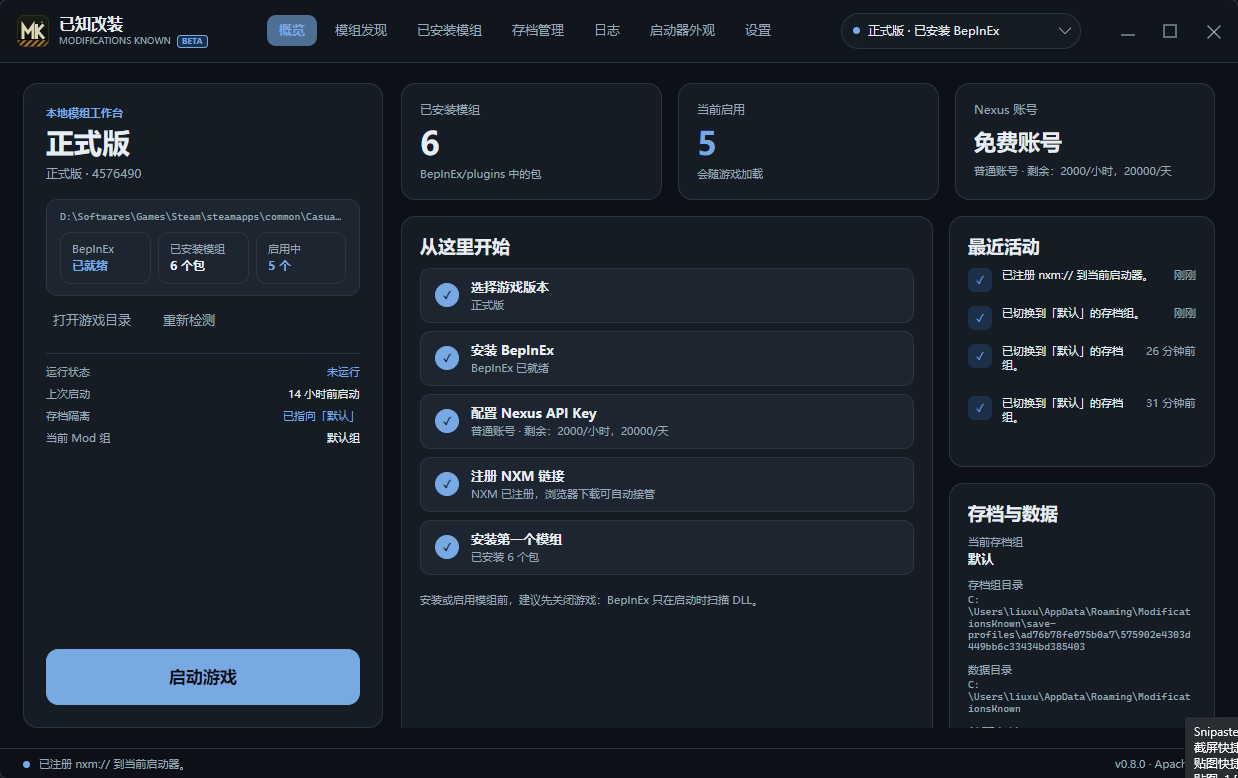
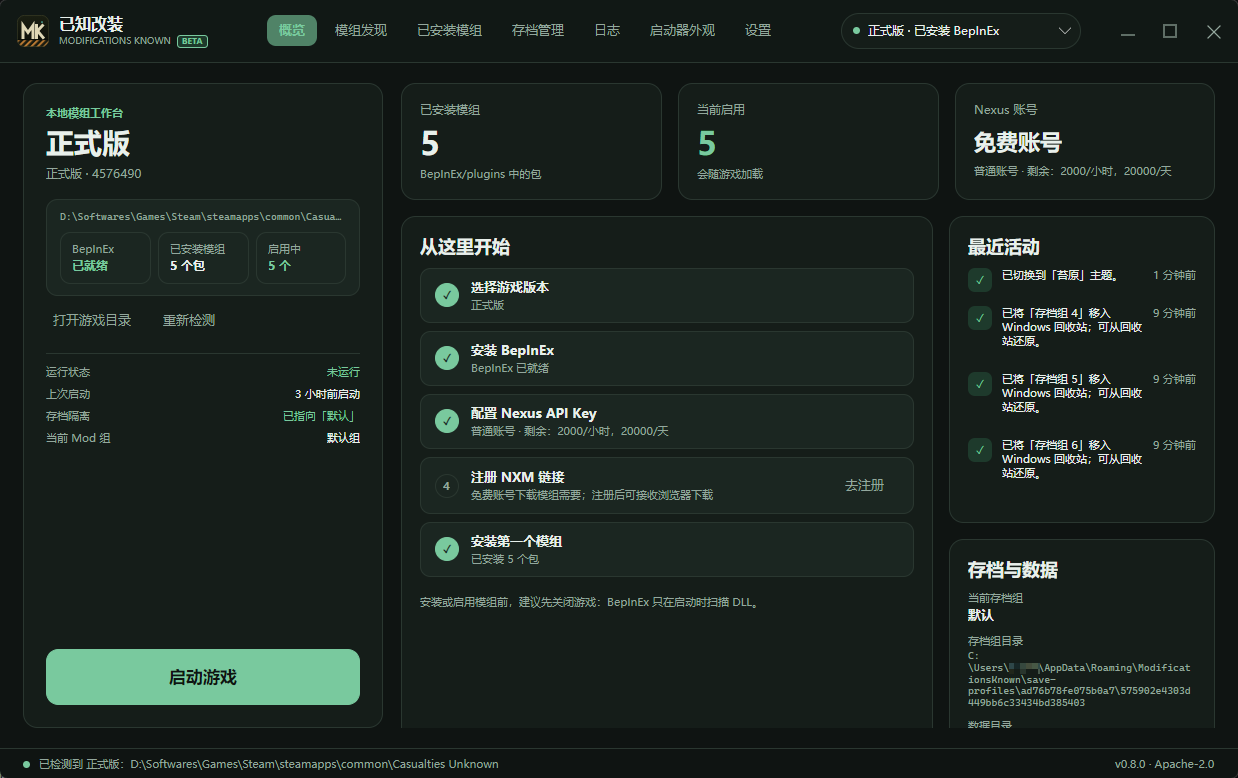
docs(readme): document save groups, multiplayer saves and refresh screenshots

diff --git a/README.md b/README.md
@@ -20,7 +20,7 @@
 
 > 一个安静、可靠、可解释的模组管理器：不隐藏文件系统，不静默覆盖，不让免费账号在 403 面前一脸问号。
 
-**当前版本：`0.8.0-beta.1`（本 fork 构建）** · [下载 Release](https://github.com/sol-long/modifications-known/releases/tag/v0.8.0-beta.1)  
+**当前版本：`0.8.0-beta.2`（本 fork 构建）** · [下载 Release](https://github.com/sol-long/modifications-known/releases/tag/v0.8.0-beta.2)  
 **平台：** Windows 10/11 · **运行时：** .NET 8 · **UI：** Avalonia 11
 
 ---
@@ -50,6 +50,7 @@
 《未知伤亡》的正式版与试玩版会并行存在，BepInEx 模组又经常以“一个文件夹 = 一个包”的形式分发。MK 围绕这两个现实设计：
 
 - **实例是一等公民**：每个游戏目录有自己的 BepInEx、存档组、Mod 组和 Nexus 来源记录。
+- **存档组同样是一等公民**：同一份游戏可以有多套完整存档，点击即切换；正式版和试玩版不再共用一份 `save.sv`。存档页能读原版单槽、QoL 多槽和 Together 联机存档，全程只读。
 - **包是操作单位**：多 DLL 模组整体启停、整体卸载，而不是逐个 DLL 猜测。
 - **写入可解释**：安装前预检、包内 manifest、哈希校验、失败报告具体到包。
 - **本地优先**：配置、日志、缓存、备份都在本机；没有账号后端，也不上传模组文件。
@@ -63,6 +64,15 @@
 - 实例别名、重新探测 Steam 库、删除实例（存档组保留在 AppData，不会被复制或删除）。
 - 启动检测：Steam 实例走 `steam://`，非 Steam 实例直接启动自己的 exe。
 - 运行状态监控；可选“阻止单实例多开”，运行中把“启动游戏”切换为红色“关闭游戏”。
+
+### 存档组与联机存档
+
+- 每个实例可以有多套完整存档组，用 NTFS junction 切换；点击某个组即保存，当前实例立刻切换，其他实例只更新选定组。从 Steam 直接启动也写进当前组。
+- 未托管存档导入成「默认」或「导入的存档」；ZIP 备份带 `manifest.json`（相对路径 + 大小 + SHA-256），导入只新建组，不覆盖、不合并；删除走 Windows 回收站。
+- 任一实例在运行时，选择、新建、克隆、重命名、导入、导出、删除全部禁用；写操作前重新扫描进程。
+- 读取三种真实布局：原版单槽 `save.sv`、QoL.Unknown 的自由槽（`slot_N.sv` + `slot_N.sv.meta` + `qol_slots.json`）、Together 的联机存档。
+- 联机存档单独一个页签：QoL 房主槽（`slot_N.mp\`）、`slot_N.client.json` 客机快照与当前 `mp_save\`，显示联机规则、玩家名单和每名玩家的物品；房主槽缺件时标记「联机存档不完整」。全部只读。
+- 难度、角色、种子与游玩时长按游戏真实预设识别（51 键严格匹配，缺键或未知键显示「自定义」）。
 
 ### BepInEx 与模组
 
@@ -112,15 +122,37 @@
 ### 已安装模组
 
 <p align="center">
-  <img src="docs/images/installed.jpg" alt="已安装模组：托管状态、依赖、启用开关与更新" width="100%">
+  <img src="docs/images/install.png" alt="已安装模组：托管状态、依赖、启用开关与更新" width="100%">
 </p>
 
-按包展示托管状态、DLL 数量、依赖摘要、启用开关和更多操作；顶部支持检查更新与一键更新。
+按包展示托管状态、DLL 数量、依赖摘要、启用开关和更多操作；顶部支持 Mod 组切换、检查更新与一键更新。
+
+### 存档管理
+
+<p align="center">
+  <img src="docs/images/saves.png" alt="存档管理：多套存档组、槽位、难度与保存时间" width="100%">
+</p>
+
+每个实例的多套存档组、当前使用的组和各槽位的层级、难度、角色、游玩时长、保存时间集中在一页。
+
+<p align="center">
+  <img src="docs/images/saves-mp.png" alt="多人存档：房主槽、当前联机存档、玩家与物品" width="100%">
+</p>
+
+「多人存档」页签把 QoL 房主槽和当前 `mp_save\` 分开列出，展开玩家可以看到每人的角色、坐标和物品。
+
+### 日志
+
+<p align="center">
+  <img src="docs/images/logs.png" alt="日志：按级别筛选、搜索、复制单条或列表" width="100%">
+</p>
+
+只读日志尾部：按文件、级别、范围筛选，字面匹配搜索，复制单条或当前列表；日志正文不会写进 MK 自己的日志。
 
 ### 启动器外观
 
 <p align="center">
-  <img src="docs/images/themes.jpg" alt="启动器外观：苔原、日光、夜航" width="100%">
+  <img src="docs/images/themes.png" alt="启动器外观：苔原、日光、夜航" width="100%">
 </p>
 
 主题只改启动器颜色变量，不会修改游戏、BepInEx 或第三方模组文件。
@@ -128,7 +160,7 @@
 ### 设置
 
 <p align="center">
-  <img src="docs/images/settings.jpg" alt="设置：实例、Nexus API Key、游戏域" width="100%">
+  <img src="docs/images/settings.png" alt="设置：实例、Nexus API Key、游戏域" width="100%">
 </p>
 
 实例管理、Nexus API Key、游戏域、日志/数据目录、NXM 注册、启动器更新。
@@ -233,6 +265,19 @@ API 文档：<https://api-docs.nexusmods.com/>
 - **难度**：把存档 `runSettings` 与游戏装配里的六个预设逐项对比（预设表取自 `RunSettings.presets`，共 51 个键；官方译名为艰难/轻松/天堂/荒凉/未植入芯片/无尽）。严格模式：必须正好包含全部 51 个键、类型一致且数值一致（浮点容差 0.01）；缺键（旧存档格式）或出现未知键（新版本/模组）都显示“自定义”，不做猜测。旧存档要等游戏用当前版本重新保存一次才会命中预设。
 - **角色**：从存档的 `character` 字段读 0/1/2，显示官方短名 Experiment / Milky / Dune；越界值保留原值显示为“未知角色（n）”，小数同样按原值显示；字段缺失的旧存档不占位。
 - **资源上限**：归档条目数、单文件与总展开大小、压缩比和解压后的 JSON 大小都有上限；超限会安全失败并清理临时目录，不影响现有组与链接。
+
+### 兼容的存档来源与版本
+
+| 来源 | 已在下列版本验证 | 识别内容 |
+| --- | --- | --- |
+| 原版单槽 | 游戏 `1.0.2` | 根目录 `save.sv`（GZip 压缩的单个 JSON），不带元数据 |
+| QoL.Unknown | `1.1.5` | `slot_N.sv` + `slot_N.sv.meta` + `qol_slots.json`（`Slots` / `Names`）；客机快照 `slot_N.client.json` |
+| Together（联机） | `5.5.4` | `mp_save\`（`save.sv`、`mp_rules.json`、每名玩家一份 `save.sv`）；QoL 存下来的房主槽是 `slot_N.mp\` 四件套 |
+
+- **多人存档页签**：QoL 房主槽、`slot_N.client.json` 客机快照和当前 `mp_save\` 只出现在「多人存档」页签，与单人存档互斥；卡片显示联机规则、玩家名单和每名玩家的物品。
+- **没装 QoL 也能读**：这种情况下 `mp_save\` 就是唯一的联机存档，单独显示为「当前联机存档」。
+- **只读**：不修改任何存档文件；组导出按整目录打包，`mp_save\**` 与 `slot_N.mp\**` 本来就在 ZIP 里。
+- 旧版模组残留的 `mp_save\_session\` 布局不显示，避免和当前存档混淆。
 
 ## 主题
 
